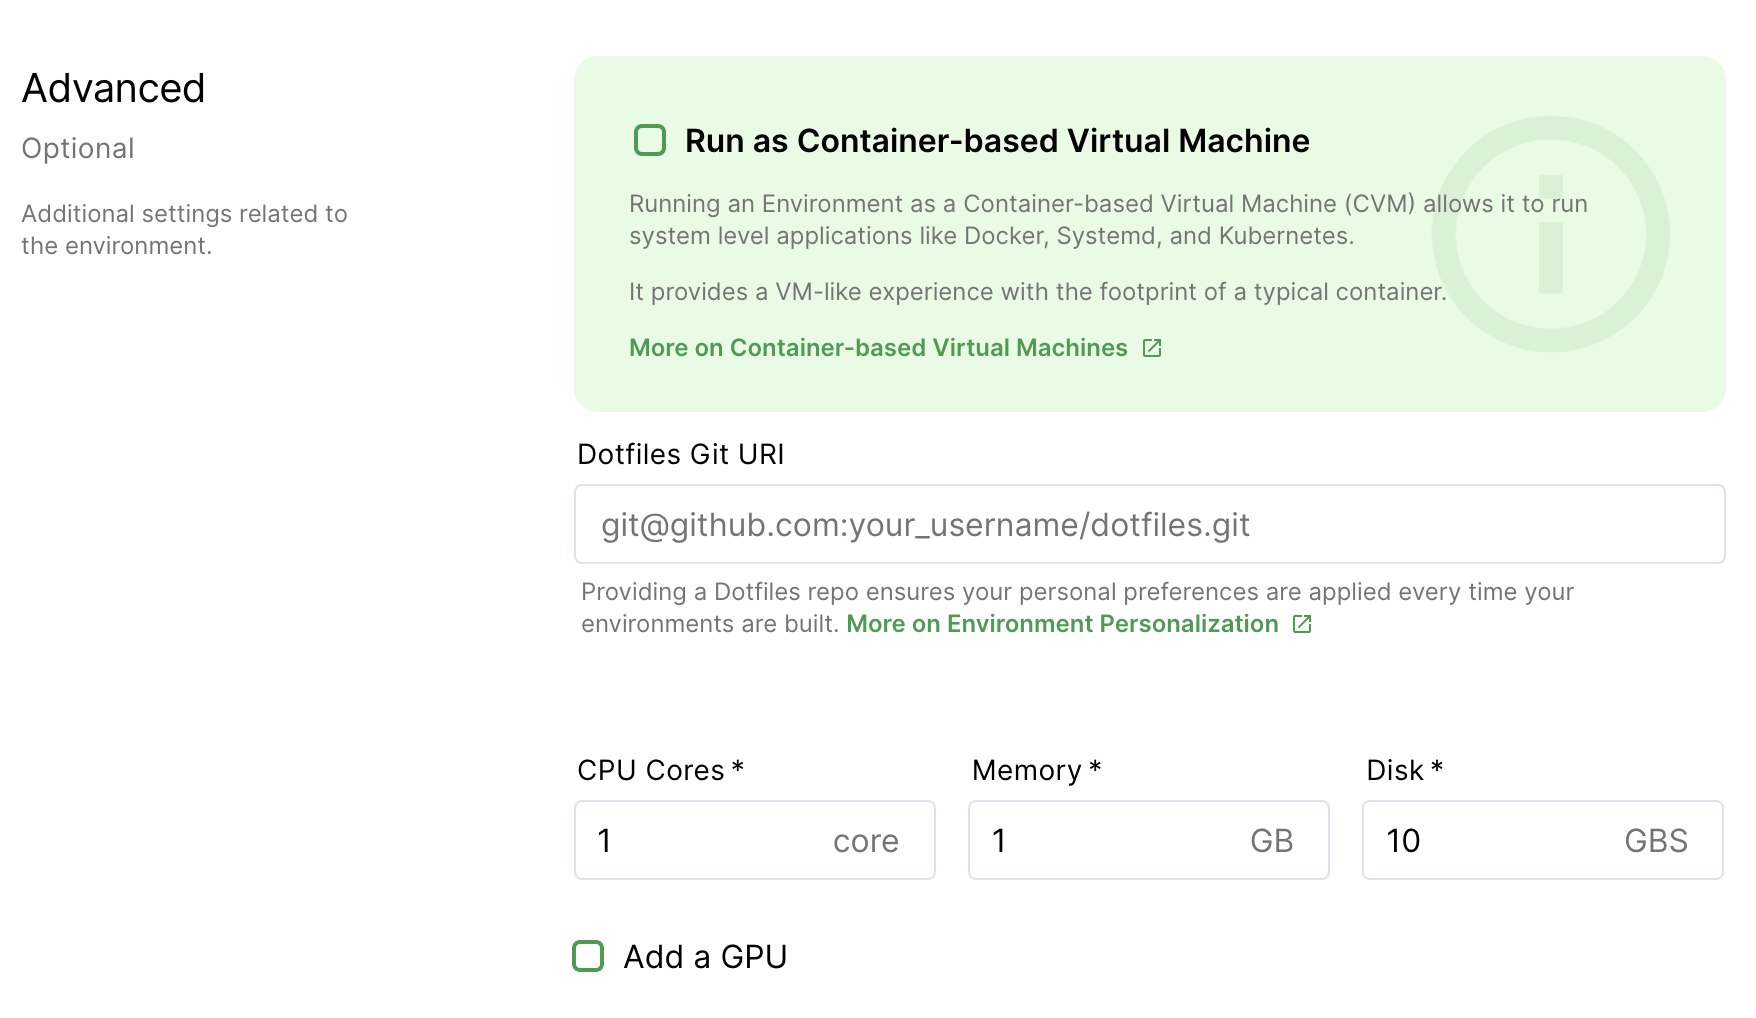
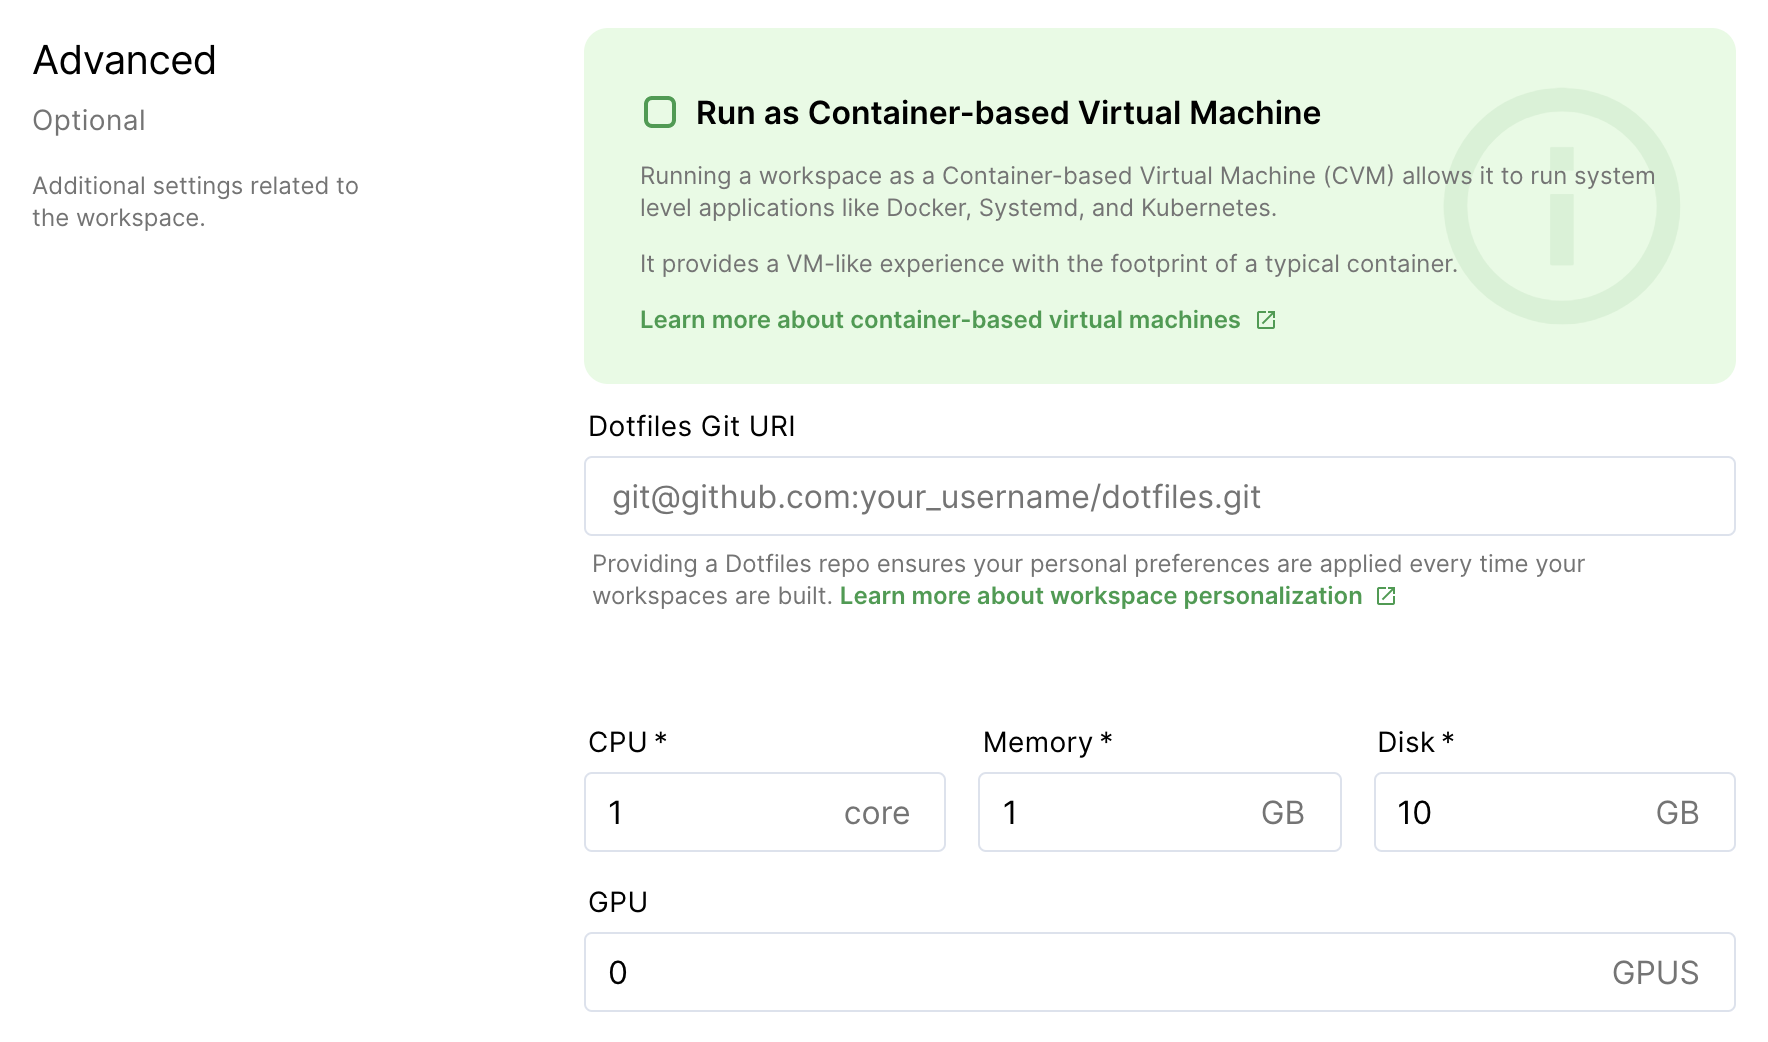
Release 1.17.3
Summary:

Releases changelog and documentation for Coder version 1.17.3.

Details:

- :boom: WAC tolerations
- :new: Toggle workspaces as code
- :new: CVM support for NVIDIA GPUs
- :new: Create a workspace with multiple GPUs
- :bug: Workspace Provider envproxy_access_url
- :bug: Workspace Providers error state display

Recognition:

* Dean Sheather for leading the CVM GPU effort and enabling whole new
  possibilities for Coder and data science use-cases
* Garrett Delfosse as the leader of the workspace providers team. Thank
  you for addressing workspace provider support.
* The entire workspaces as code team, with shout out to Sean Smith and
  Lilly Hoffman  for WAC patch items
* Katie Horne for documenting CVM GPUs

diff --git a/changelog/1.17.3.md b/changelog/1.17.3.md
@@ -1,0 +1,34 @@
+---
+title: "1.17.3"
+description: "Released on 04/09/21"
+---
+
+### Breaking changes ❗
+
+- infra: Removed `tolerations` from workspaces as code templates.
+
+### Features ✨
+
+- web: Added a toggle to enable/disable workspaces as code on the **Manage >
+  Admin > Templates** page. Disabling workspaces as code has the following
+  impact:
+  - New workspaces cannot be created from a template
+  - Existing workspaces built from a template will continue to operate and may
+    be rebuilt. These workspaces will still be notified of changes to remote
+    templates.
+- infra: Added beta support for NVIDIA GPUs in environments created as
+  container-based virtual machines (CVMs).
+- web: Environments can now be created with multiple GPUs (maximum number of
+  GPUs: 20).
+
+### Bug fixes 🐛
+
+- web: Fixed **Application** icons appearing broken and the **workspace provider
+  ping indicator** remaining in an error state. The underlying cause was a
+  malformed _envproxy_access_url_ on `built-in` workspace providers.
+- web: Fixed an issue causing workspace providers to incorrectly appear in an
+  error state on the **Manage > Admin > Workspace Providers** page.
+
+### Security updates 🔐
+
+There are no security updates in 1.17.3.

diff --git a/environments/environment-params.md b/environments/environment-params.md
@@ -86,10 +86,10 @@ set your resource allocation.
         <td>The amount of storage space you'd like for your environment</td>
     </tr>
     <tr>
-        <td><b>Add a GPU</b></td>
-        <td>Whether you want a
-        [GPU](../admin/environment-management/gpu-acceleration.md) added to
-        your environment</td>
+        <td><b>GPU</b></td>
+        <td>The number of
+        <a href="../admin/environment-management/gpu-acceleration.md">GPUs</a>
+        you want allocated to your environment</td>
     </tr>
 </table>
 

diff --git a/admin/environment-management/cvms.md b/admin/environment-management/cvms.md
@@ -22,6 +22,9 @@ such as Docker and systemd, in their environments.
 **Note:** Coder doesn't support legacy versions of cluster-wide proxy services
 such as Istio.
 
+> Support for NVIDIA [GPUs](gpu-acceleration.md) is in **beta**. We do not
+> support AMD GPUs at this time.
+
 ## Enabling CVMs in Coder
 
 1. Go to **Manage > Admin > Infrastructure**.
